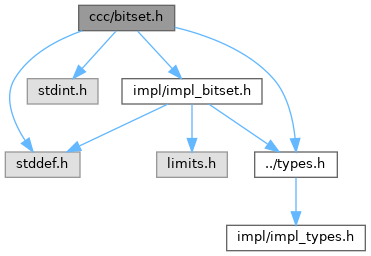
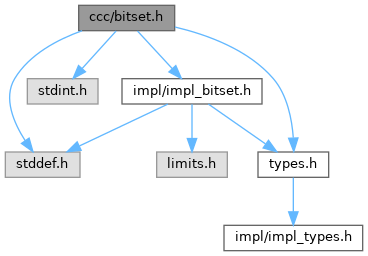
Deploying to gh-pages from @ agl-alexglopez/ccc@7adc8568f5bf0bf9291dd9db67010cd788ddccee 🚀

diff --git a/impl__bitset_8h_source.html b/impl__bitset_8h_source.html
@@ -99,7 +99,7 @@ $(document).ready(function(){initNavTree('impl__bitset_8h_source.html',''); init
 <div class="line"><a id="l00004" name="l00004"></a><span class="lineno">    4</span><span class="preprocessor">#include &lt;limits.h&gt;</span></div>
 <div class="line"><a id="l00005" name="l00005"></a><span class="lineno">    5</span><span class="preprocessor">#include &lt;stddef.h&gt;</span></div>
 <div class="line"><a id="l00006" name="l00006"></a><span class="lineno">    6</span> </div>
-<div class="line"><a id="l00007" name="l00007"></a><span class="lineno">    7</span><span class="preprocessor">#include &quot;../types.h&quot;</span></div>
+<div class="line"><a id="l00007" name="l00007"></a><span class="lineno">    7</span><span class="preprocessor">#include &quot;<a class="code" href="types_8h.html">types.h</a>&quot;</span></div>
 <div class="line"><a id="l00008" name="l00008"></a><span class="lineno">    8</span> </div>
 <div class="line"><a id="l00010" name="l00010"></a><span class="lineno">   10</span><span class="keyword">typedef</span> <span class="keywordtype">unsigned</span> ccc_bitblock_;</div>
 <div class="line"><a id="l00011" name="l00011"></a><span class="lineno">   11</span> </div>
@@ -131,6 +131,7 @@ $(document).ready(function(){initNavTree('impl__bitset_8h_source.html',''); init
 <div class="line"><a id="l00043" name="l00043"></a><span class="lineno">   43</span><span class="preprocessor">    }</span></div>
 <div class="line"><a id="l00044" name="l00044"></a><span class="lineno">   44</span> </div>
 <div class="line"><a id="l00045" name="l00045"></a><span class="lineno">   45</span><span class="preprocessor">#endif </span><span class="comment">/* CCC_IMPL_BITSET */</span><span class="preprocessor"></span></div>
+<div class="ttc" id="atypes_8h_html"><div class="ttname"><a href="types_8h.html">types.h</a></div><div class="ttdoc">The C Container Collection Fundamental Types.</div></div>
 <div class="ttc" id="atypes_8h_html_a8be6e2d1b150a5b77b2eba5ae85764f2"><div class="ttname"><a href="types_8h.html#a8be6e2d1b150a5b77b2eba5ae85764f2">ccc_alloc_fn</a></div><div class="ttdeci">void * ccc_alloc_fn(void *ptr, size_t size, void *aux)</div><div class="ttdoc">An allocation function at the core of all containers.</div><div class="ttdef"><b>Definition:</b> types.h:217</div></div>
 </div><!-- fragment --></div><!-- contents -->
 </div><!-- doc-content -->

diff --git a/bitset_8h.html b/bitset_8h.html
@@ -109,9 +109,9 @@ Include dependency graph for bitset.h:</div>
 <area shape="rect" title=" " alt="" coords="5,152,80,177"/>
 <area shape="rect" title=" " alt="" coords="27,79,98,104"/>
 <area shape="rect" href="impl__bitset_8h_source.html" title=" " alt="" coords="122,79,262,104"/>
-<area shape="rect" href="types_8h.html" title="The C Container Collection Fundamental Types." alt="" coords="255,152,337,177"/>
+<area shape="rect" href="types_8h.html" title="The C Container Collection Fundamental Types." alt="" coords="258,152,329,177"/>
 <area shape="rect" title=" " alt="" coords="157,152,227,177"/>
-<area shape="rect" href="impl__types_8h_source.html" title=" " alt="" coords="227,225,365,251"/>
+<area shape="rect" href="impl__types_8h_source.html" title=" " alt="" coords="224,225,363,251"/>
 </map>
 </div>
 </div>
